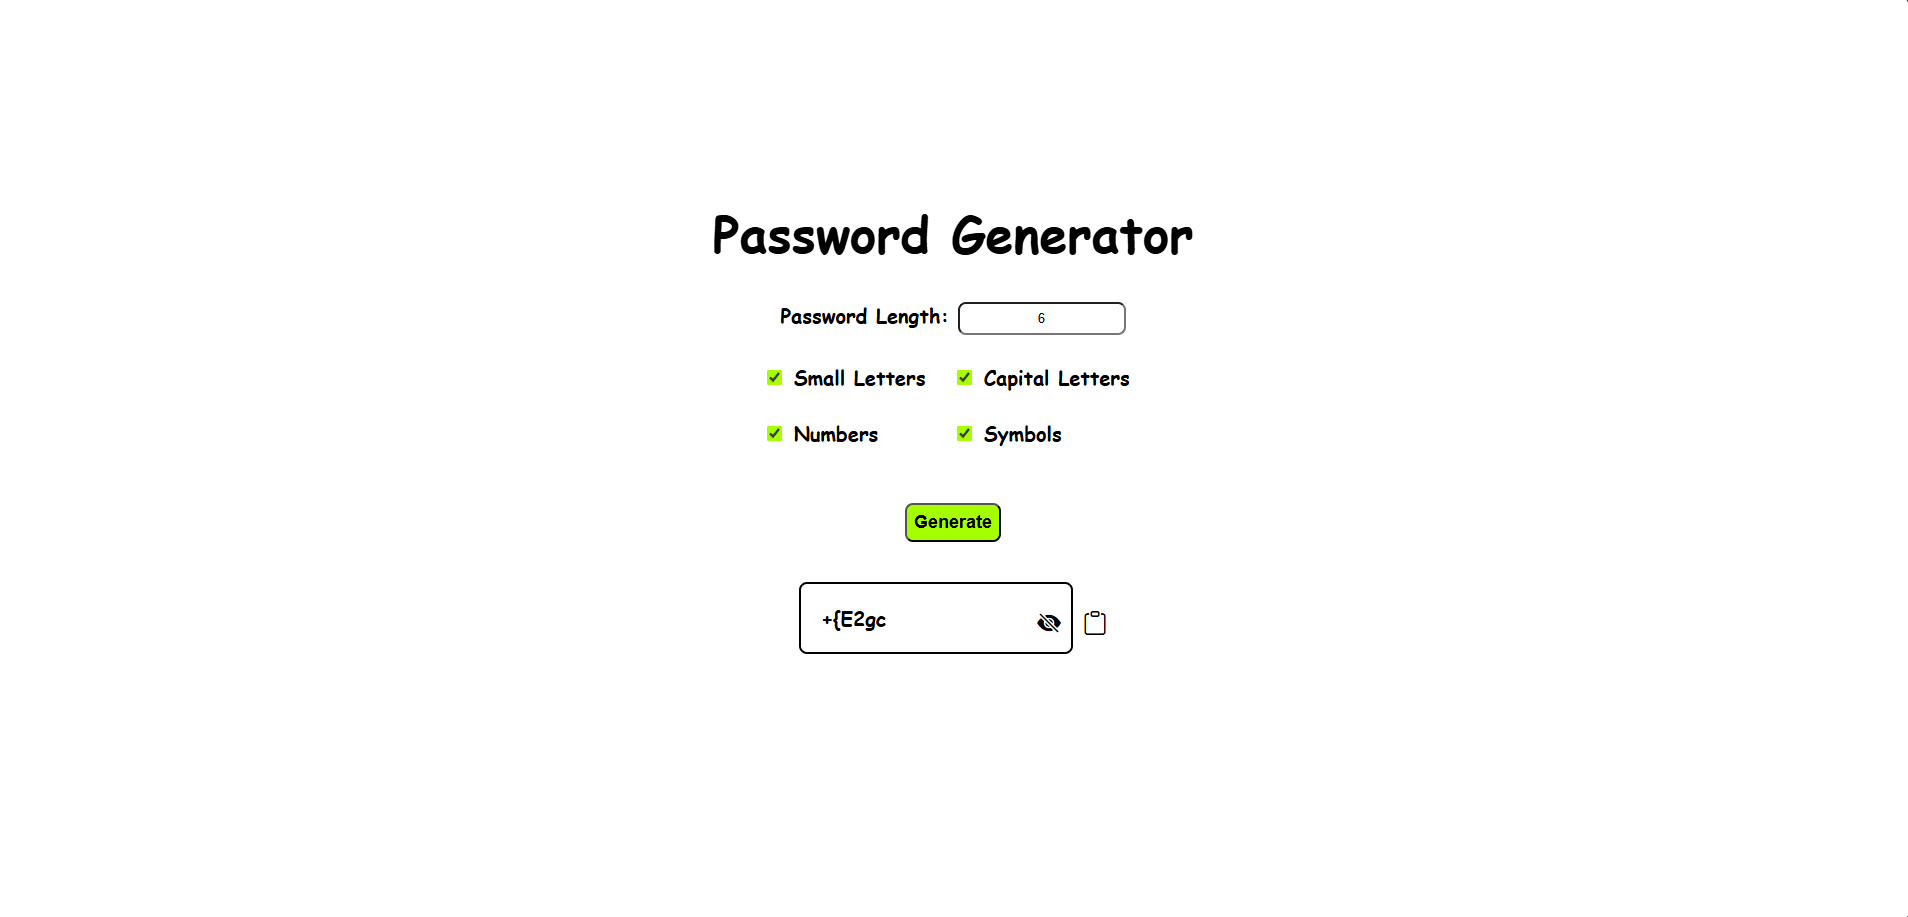
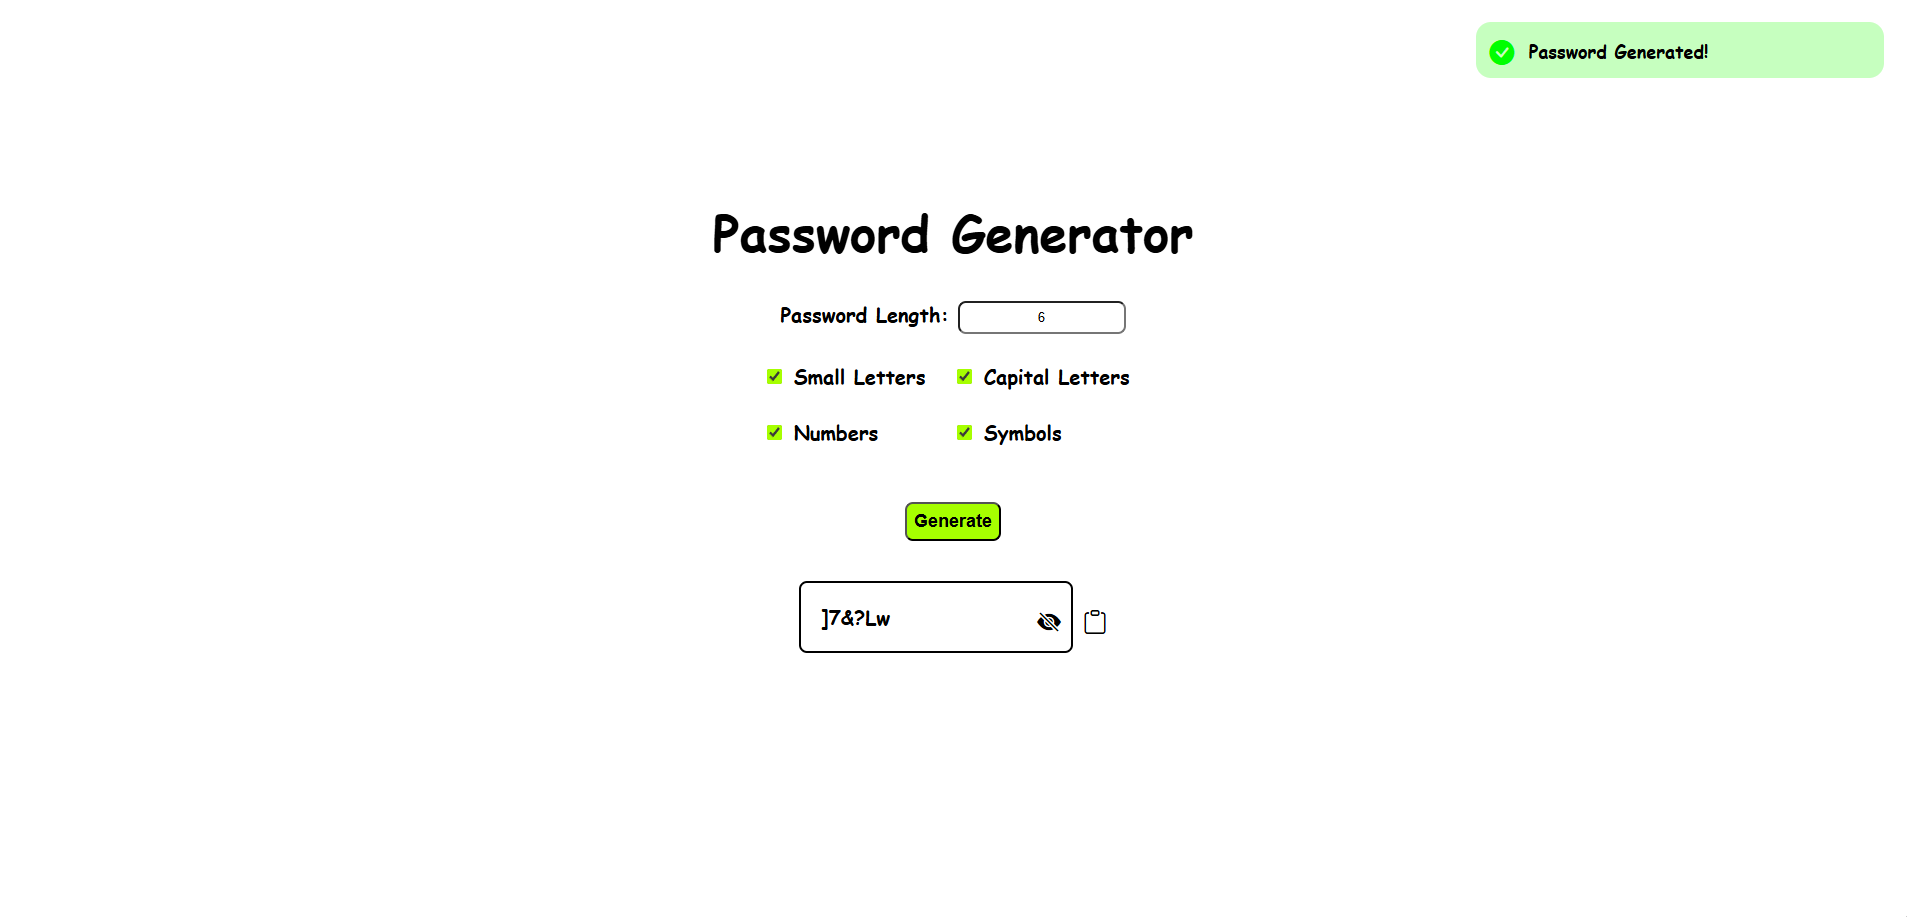
Add pop-up feature

diff --git a/index.js b/index.js
@@ -4,7 +4,6 @@ function generatePassword() {
   const hasCapital = document.getElementById("capital-checkbox").checked;
   const hasNumbers = document.getElementById("numbers-checkbox").checked;
   const hasSymbols = document.getElementById("symbols-checkbox").checked;
-  const error = document.getElementById("error");
   const resultContainer = document.getElementById("result-container");
   const generatedPassword = document.getElementById("generated-password");
   const viewPasswordIcon = document.getElementById("view-password");
@@ -12,12 +11,11 @@ function generatePassword() {
   const copyPassword = document.getElementById("copy-password");
 
   if (passwordLength == "" || Number(passwordLength) < 4) {
-    error.textContent = "Password length must be at least 4 characters long";
+    showPopup(false, "Password length must be at least 4 characters long.");
     return;
   } else if (!hasSmall && !hasCapital && !hasNumbers && !hasSymbols) {
-    error.textContent = "Please check at least one conditon";
+    showPopup(false, "Please check at least one conditon.");
   } else {
-    error.textContent = "";
     const CHARSETS = {
       lowercase: "a-z",
       uppercase: "A-Z",
@@ -42,6 +40,7 @@ function generatePassword() {
     let newPassword = new RandExp(newRegex).gen();
     let hiddenPassword = () => "*".repeat(newPassword.length);
     resultContainer.style.display = "flex";
+    showPopup(true, "Password Generated!");
 
     viewPasswordIcon.addEventListener("click", () => {
       generatedPassword.textContent = newPassword;
@@ -64,4 +63,32 @@ function generatePassword() {
 
     hidePasswordIcon.click();
   }
+}
+
+function showPopup(isSucess, message) {
+  const popUp = document.querySelector(".pop-up");
+  const popUpTitle = document.querySelector(".pop-up-title");
+  const success = document.getElementById("success");
+  const warning = document.getElementById("warning");
+  if (isSucess) {
+    popUp.style.backgroundColor = "#c6ffbf";
+    success.style.color = "#00ff00";
+    success.style.display = "block";
+    warning.style.display = "none";
+  } else {
+    popUp.style.backgroundColor = "#fff8bf";
+    warning.style.color = "#ffe100";
+    warning.style.display = "block";
+    success.style.display = "none";
+  }
+  popUp.style.display = "flex";
+  popUp.style.animationName = "slide-left";
+  popUpTitle.textContent = message;
+
+  setTimeout(() => {
+    popUp.style.animationName = "slide-right";
+    setTimeout(() => {
+      popUp.style.display = "none";
+    }, 700);
+  }, 4000);
 }

diff --git a/index.css b/index.css
@@ -43,10 +43,6 @@ input[type="checkbox"] {
   accent-color: rgb(166, 255, 0);
 }
 
-#error {
-  color: red;
-}
-
 button {
   font-weight: bold;
   font-size: 18px;
@@ -97,4 +93,45 @@ i {
   top: 0;
   bottom: 0;
   align-self: center;
+}
+
+.pop-up {
+  display: flex;
+  align-items: center;
+  border-radius: 15px;
+  width: 20%;
+  min-width: 300px;
+  position: fixed;
+  top: 0;
+  right: 0;
+  margin: 25px;
+  padding: 13px;
+  font-size: 18px;
+  display: none;
+  animation-name: slide-left;
+  animation-duration: 0.8s;
+}
+
+.pop-up-icon {
+  font-size: 25px;
+  padding-right: 15px;
+  line-height: 1; /* to center the icon */
+}
+
+@keyframes slide-left {
+  0% {
+    right: -40%;
+  }
+  100% {
+    right: 0;
+  }
+}
+
+@keyframes slide-right {
+  100% {
+    right: -40%;
+  }
+  0% {
+    right: 0;
+  }
 }

diff --git a/index.html b/index.html
@@ -46,7 +46,6 @@
     </div>
 
     <br />
-    <span id="error"></span>
 
     <br />
     <button onclick="generatePassword()">Generate</button>
@@ -59,8 +58,14 @@
       </div>
       <i class="bi bi-clipboard display-none" id="copy-password"></i>
     </div>
-    <script src="https://github.com/fent/randexp.js/releases/download/v0.4.3/randexp.min.js"></script>
 
+    <div class="pop-up">
+      <i class="bi bi-check-circle-fill pop-up-icon" id="success"></i>
+      <i class="bi bi-exclamation-triangle-fill pop-up-icon" id="warning"></i>
+      <span class="pop-up-title"></span>
+    </div>
+
+    <script src="https://github.com/fent/randexp.js/releases/download/v0.4.3/randexp.min.js"></script>
     <script src="index.js"></script>
   </body>
 </html>

diff --git a/README.md b/README.md
@@ -1,6 +1,6 @@
 # Password Generator 🔒
 
-A simple and interactive JavaScript password generator that creates secure passwords based on user-selected criteria. Users can choose to include lowercase letters, uppercase letters, numbers, and symbols. The project focuses on DOM manipulation, event handling, and string logic.
+A simple and interactive JavaScript password generator that creates secure passwords based on user-selected criteria. Users can choose to include lowercase letters, uppercase letters, numbers, and symbols. The project focuses on DOM manipulation, event handling, string logic, and user feedback through popup notifications.
 
 ## Features ✨
 
@@ -10,6 +10,10 @@ A simple and interactive JavaScript password generator that creates secure passw
   - Uppercase letters
   - Numbers
   - Symbols
+- Popup notifications for user feedback:
+  - Error when no character type is selected
+  - Success message when a password is generated
+  - Confirmation when password is copied
 - Dynamic UI updates using JavaScript
 - Clean and beginner-friendly code structure
 - Copy-to-clipboard functionality
@@ -23,6 +27,7 @@ A simple and interactive JavaScript password generator that creates secure passw
 - Styling with JavaScript `style.display`
 - Regular expressions `RegExp` `RandExp`
 - String manipulation `.replaceAll()` `.repeat`
+- UI feedback using custom popup notifations (success & warning)
 
 ## Programming Languages Used 🛠
 
@@ -32,7 +37,7 @@ A simple and interactive JavaScript password generator that creates secure passw
 
 ## Dependencies 📦
 
-- **randexp.js (v0.5.3)** – Used to generate random strings based on regular expressions
+- **randexp.js (v0.5.3)** – Used to generate random strings based on regular expressions.
 
 ## Screenshot 📸
 
@@ -40,9 +45,4 @@ A simple and interactive JavaScript password generator that creates secure passw
 
 ## Planned Features 🚀
 
-- Popup notifications for user feedback:
-  - Error messages (e.g., no character type selected)
-  - Password generated successfully
-  - Password copied to clipboard
-- Improved password logic to ensure:
-  - At least one character from each selected option is included
+- Improve password logic to ensure at least one character from each selected option is included.
